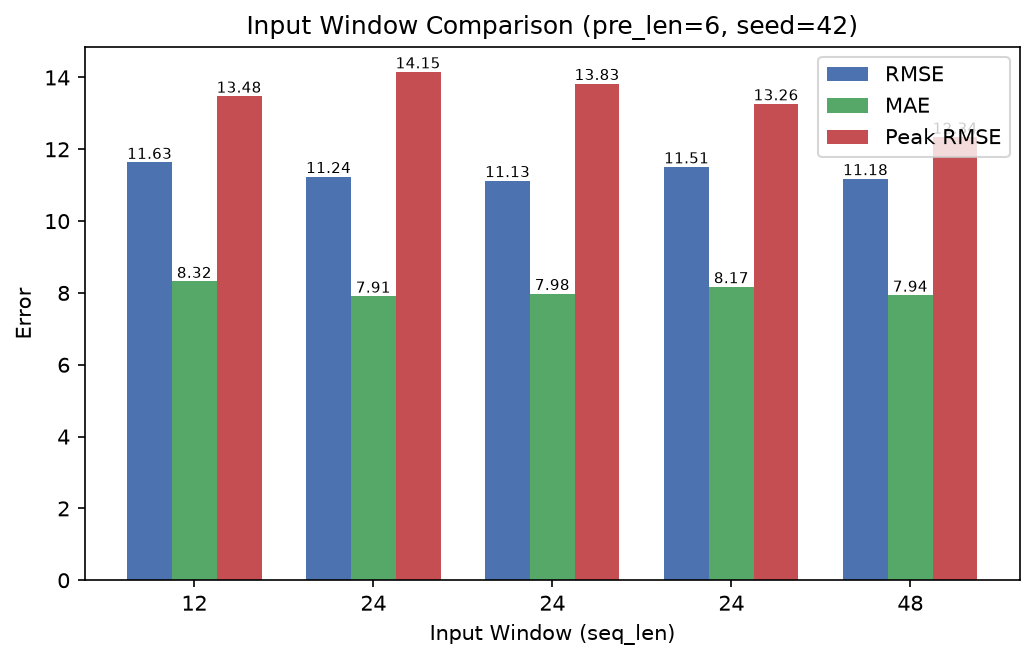
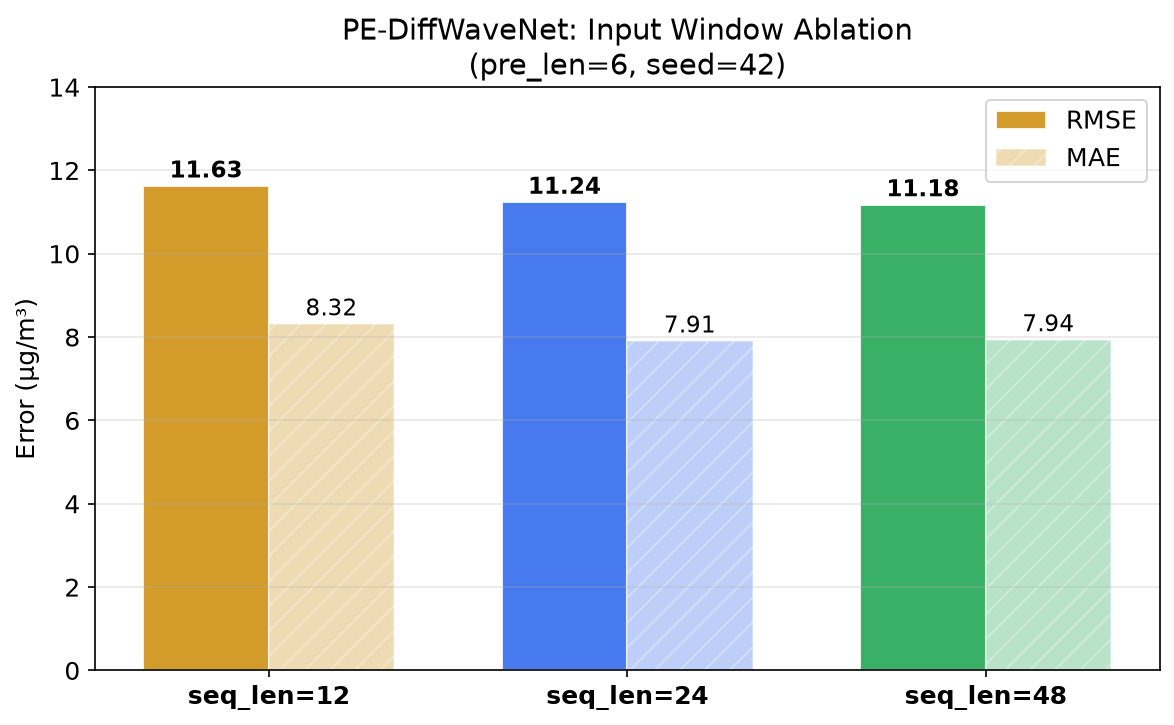
数据处理修改

diff --git a/missing_stats.py b/missing_stats.py
@@ -1,39 +1,92 @@
 import pandas as pd
 from pathlib import Path
 
+
+# 数据目录
 data_dir = Path("data_N95")
+
+# 需要统计的污染物
 pollutants = ["O3", "PM2.5", "PM10"]
+
+station_file = Path("xlsx_N95/station_loc1.xlsx")
+
+stations = pd.read_excel(station_file)
+
+# 查看站点文件结构
+print("station_loc1.xlsx columns:")
+print(stations.columns.tolist())
+
+# 默认取第一列作为站点编号
+# 如果你的文件中有明确列名，可以改成对应列
+site_col = stations.columns[0]
+
+AIR_N95 = (
+    stations[site_col]
+    .astype(str)
+    .tolist()
+)
 
 results = []
 
 for pollutant in pollutants:
+    print("\n")
+    print("正在统计:", pollutant)
+
     total_count = 0
     missing_count = 0
+    files = sorted(data_dir.glob("china_sites_*.csv"))
+    print("文件数量:", len(files))
 
-    for file in sorted(data_dir.glob("china_sites_*.csv")):
+    for idx, file in enumerate(files):
+
+        # 每50个文件提示一次进度
+        if (idx + 1) % 50 == 0 or idx == 0 or idx == len(files) - 1:
+            print(
+                f"[{idx+1}/{len(files)}] 已处理"
+            )
+
         df = pd.read_csv(file)
 
+        # 找对应污染物
         sub = df[df["type"] == pollutant]
-
         if sub.empty:
             continue
 
-        values = sub.drop(columns=["date", "hour", "type"], errors="ignore")
-
+        # 只保留95个站点
+        available_sites = [
+            s for s in AIR_N95
+            if s in sub.columns
+        ]
+        values = sub[available_sites]
         total_count += values.size
-        missing_count += values.isna().sum().sum()
+        missing_count += (
+            values.isna()
+            .sum()
+            .sum()
+        )
 
-    missing_ratio = missing_count / total_count if total_count else 0
+    ratio = (
+        missing_count / total_count
+        if total_count > 0
+        else 0
+    )
+    results.append(
+        {
+            "pollutant": pollutant,
+            "total_count": total_count,
+            "missing_count": missing_count,
+            "missing_ratio": ratio
+        }
+    )
+result_df = pd.DataFrame(results)
 
-    results.append({
-        "pollutant": pollutant,
-        "total_count": total_count,
-        "missing_count": missing_count,
-        "missing_ratio": missing_ratio
-    })
 
-out = pd.DataFrame(results)
-print(out)
-
-out.to_csv("pollutant_missing_summary.csv", index=False, encoding="utf-8-sig")
-print("已生成 pollutant_missing_summary.csv")
+print("\n缺失统计结果")
+print(result_df)
+result_df.to_csv(
+    "pollutant_missing_summary.csv",
+    index=False,
+    encoding="utf-8-sig"
+)
+print("\n已保存:")
+print("pollutant_missing_summary.csv")
